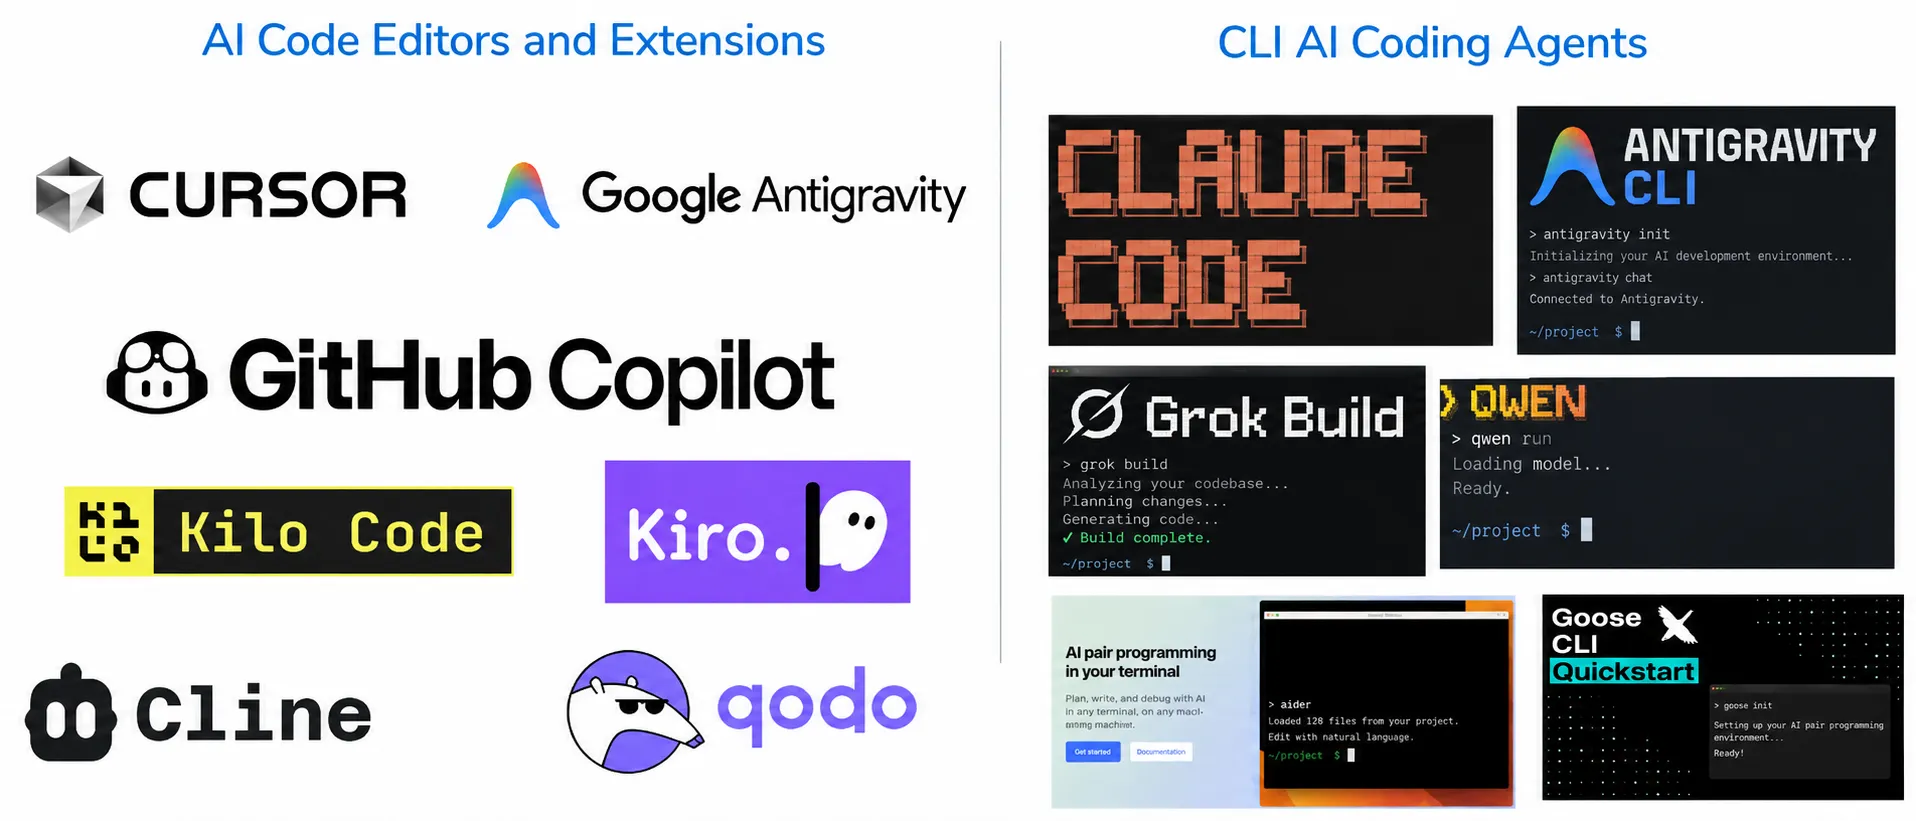
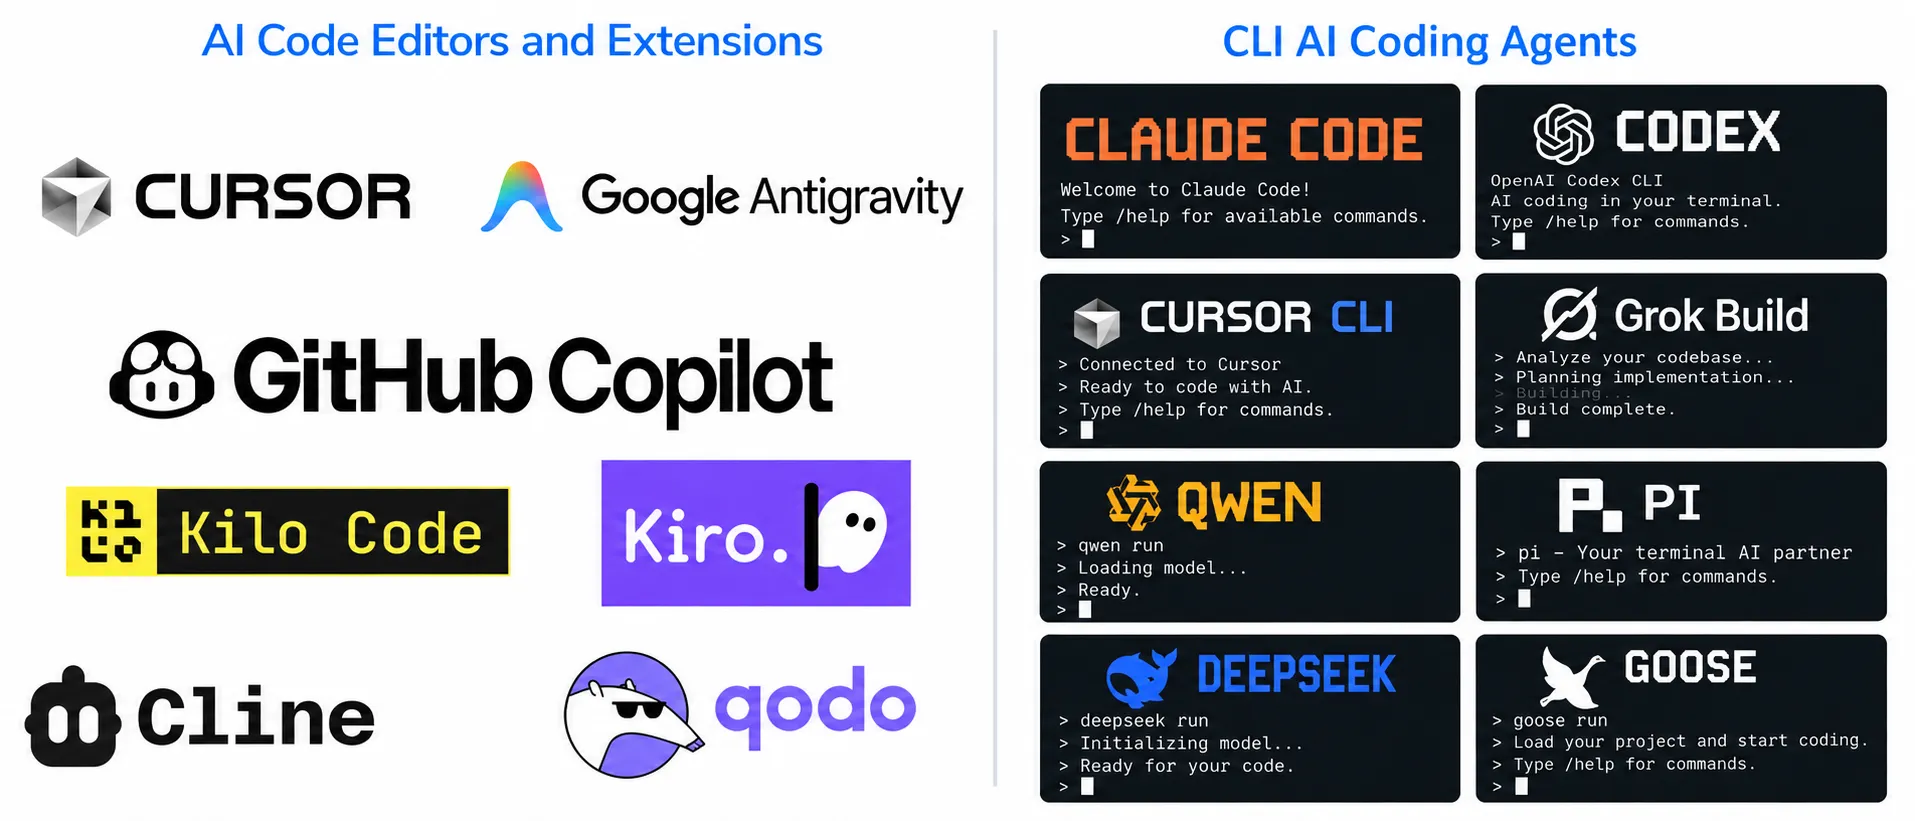
Update blog post on best AI coding tools for coding in 2026 with new content and image

diff --git a/content/blog/best_ai_tools_for_coding.md b/content/blog/best_ai_tools_for_coding.md
@@ -1,13 +1,13 @@
 ---
 title: "Best AI Tools for Coding in 2026"
-description: "The AI coding tools worth installing in late 2026: Cursor after the SpaceX deal, Google Antigravity, GitHub Copilot's credit billing, Cline, Kilo Code, Zed, Kiro, and terminal agents like Claude Code, OpenAI Codex, OpenCode, Pi, Amp, Grok Build, and Droid."
+description: "The AI coding tools worth installing in late 2026: Cursor after the SpaceX deal, Google Antigravity, GitHub Copilot's credit billing, Cline, Kilo Code, Zed, Kiro, and terminal agents like Claude Code, OpenAI Codex, DeepSeek Harness, OpenCode, Pi, Amp, Grok Build, and Droid."
 date: 2025-08-17T14:15:25+05:30
-lastmod: 2026-09-08T15:15:25+05:30
+lastmod: 2026-09-09T15:15:25+05:30
 draft: false
 tags: ["AI coding tools", "AI coding agents", "Cursor", "AI tools", "development"]
 categories: ["Technology", "Development", "AI Tools"]
 og_image: "images/best_ai_tools_for_coding/ai_coding_tools.webp"
[2 lines of base64/hex data omitted]
 outputs:
   - HTML
   - AMP
@@ -17,7 +17,7 @@ outputs:
 
 AI coding tools have gone from autocomplete plugins to agents that plan a task, edit a dozen files, run your test suite, and open the pull request. Picking one is now less about which model is smartest this month and more about where the agent runs, who owns it, and what a month of real usage costs.
 
-That last part is why this list looks different from the version you may have read earlier. In the last six months Google retired Gemini CLI, SpaceX closed a $60 billion all-stock acquisition of Cursor's parent Anysphere, AWS ended support for Amazon Q Developer, Cognition renamed Windsurf to Devin Desktop, and Cursor absorbed both Supermaven and Continue.dev. Several tools this post used to recommend no longer exist under the name you knew them by.
+That last part is why this list looks different from the version you may have read earlier. In the last six months Google retired Gemini CLI, SpaceX closed a $60 billion all-stock acquisition of Cursor's parent Anysphere, AWS ended support for Amazon Q Developer, Cognition renamed Windsurf to Devin Desktop, and Cursor absorbed both Supermaven and Continue.dev. Several tools this post used to recommend no longer exist under the name you knew them by. On the other side of the ledger, DeepSeek open-sourced its own agent harness on August 13 and passed 100,000 GitHub stars in about two days, on its way to overtaking OpenCode as the most-starred coding agent on GitHub.
 
 Here is what is actually worth installing in September 2026, split by where it runs: in your editor, or in your terminal.
 
@@ -36,14 +36,15 @@ Here is what is actually worth installing in September 2026, split by where it r
 **CLI coding agents:**
 1. **Claude Code** - Anthropic's terminal agent, strongest on long multi-file work - <a target="_blank" href="https://claude.com/product/claude-code">Try Claude Code</a>
 2. **OpenAI Codex** - Apache-2.0 terminal agent on OpenAI's GPT-5 series - <a target="_blank" href="https://github.com/openai/codex">Try Codex</a>
-3. **OpenCode** - 206k stars, 75+ model providers, MIT licensed - <a target="_blank" href="https://opencode.ai">Try OpenCode</a>
-4. **Pi** - the sub-1,000-token harness, 103k stars and still climbing - <a target="_blank" href="https://github.com/earendil-works/pi">Try Pi</a>
-5. **Cursor CLI** - Cursor's agent outside the editor, bundled with paid plans - <a target="_blank" href="https://cursor.com/cli">Try Cursor CLI</a>
-6. **Amp** - Sourcegraph-founded agent with a genuinely usable free tier - <a target="_blank" href="https://ampcode.com">Try Amp</a>
-7. **Grok Build** - xAI's Rust TUI with eight parallel sub-agents, Apache-2.0 - <a target="_blank" href="https://github.com/xai-org/grok-build">Try Grok Build</a>
-8. **Antigravity CLI** - Google's `agy` binary, the replacement for Gemini CLI - <a target="_blank" href="https://antigravity.google/">Try Antigravity CLI</a>
-9. **Droid** - Factory's model-agnostic agent aimed at enterprise SDLC - <a target="_blank" href="https://factory.ai">Try Droid</a>
-10. **Goose** - Apache-2.0 agent under the Agentic AI Foundation, runs local models - <a target="_blank" href="https://github.com/aaif-goose/goose">Try Goose</a>
+3. **DeepSeek Harness** - the new star leader, ~219k and MIT, everything in it is a plugin - <a target="_blank" href="https://github.com/deepseek-ai/deepseek-harness">Try DeepSeek Harness</a>
+4. **OpenCode** - 206k stars, 75+ model providers, MIT licensed - <a target="_blank" href="https://opencode.ai">Try OpenCode</a>
+5. **Pi** - the sub-1,000-token harness, 103k stars and still climbing - <a target="_blank" href="https://github.com/earendil-works/pi">Try Pi</a>
+6. **Cursor CLI** - Cursor's agent outside the editor, bundled with paid plans - <a target="_blank" href="https://cursor.com/cli">Try Cursor CLI</a>
+7. **Amp** - Sourcegraph-founded agent with a genuinely usable free tier - <a target="_blank" href="https://ampcode.com">Try Amp</a>
+8. **Grok Build** - xAI's Rust TUI with eight parallel sub-agents, Apache-2.0 - <a target="_blank" href="https://github.com/xai-org/grok-build">Try Grok Build</a>
+9. **Antigravity CLI** - Google's `agy` binary, the replacement for Gemini CLI - <a target="_blank" href="https://antigravity.google/">Try Antigravity CLI</a>
+10. **Droid** - Factory's model-agnostic agent aimed at enterprise SDLC - <a target="_blank" href="https://factory.ai">Try Droid</a>
+11. **Goose** - Apache-2.0 agent under the Agentic AI Foundation, runs local models - <a target="_blank" href="https://github.com/aaif-goose/goose">Try Goose</a>
 
 **Honorable mentions:** <a target="_blank" href="https://www.warp.dev">Warp</a>, <a target="_blank" href="https://github.com/charmbracelet/crush">Crush</a>, <a target="_blank" href="https://www.trae.ai">Trae</a>
 {{% /tldr %}}
@@ -127,48 +128,54 @@ Here is what is actually worth installing in September 2026, split by where it r
   <td style="border:1px solid #ddd;padding:0.4em 0.4em;text-align:left;">ChatGPT plans or API</td>
 </tr>
 <tr>
+  <td style="border:1px solid #ddd;padding:0.4em 0.4em;text-align:left;"><strong><a href="https://github.com/deepseek-ai/deepseek-harness" target="_blank">DeepSeek Harness</a></strong></td>
+  <td style="border:1px solid #ddd;padding:0.4em 0.4em;text-align:left;">CLI agent</td>
+  <td style="border:1px solid #ddd;padding:0.4em 0.4em;text-align:left;">Provider-agnostic, plugin-based, biggest star mover</td>
+  <td style="border:1px solid #ddd;padding:0.4em 0.4em;text-align:left;">Free (MIT)</td>
+</tr>
+<tr style="background:#f9fbfd;">
   <td style="border:1px solid #ddd;padding:0.4em 0.4em;text-align:left;"><strong><a href="https://opencode.ai" target="_blank">OpenCode</a></strong></td>
   <td style="border:1px solid #ddd;padding:0.4em 0.4em;text-align:left;">CLI agent</td>
   <td style="border:1px solid #ddd;padding:0.4em 0.4em;text-align:left;">Provider independence and local models</td>
   <td style="border:1px solid #ddd;padding:0.4em 0.4em;text-align:left;">Free (MIT)</td>
 </tr>
-<tr style="background:#f9fbfd;">
+<tr>
   <td style="border:1px solid #ddd;padding:0.4em 0.4em;text-align:left;"><strong><a href="https://github.com/earendil-works/pi" target="_blank">Pi</a></strong></td>
   <td style="border:1px solid #ddd;padding:0.4em 0.4em;text-align:left;">CLI agent</td>
   <td style="border:1px solid #ddd;padding:0.4em 0.4em;text-align:left;">A minimal, readable harness to build on</td>
   <td style="border:1px solid #ddd;padding:0.4em 0.4em;text-align:left;">Free (MIT)</td>
 </tr>
-<tr>
+<tr style="background:#f9fbfd;">
   <td style="border:1px solid #ddd;padding:0.4em 0.4em;text-align:left;"><strong><a href="https://cursor.com/cli" target="_blank">Cursor CLI</a></strong></td>
   <td style="border:1px solid #ddd;padding:0.4em 0.4em;text-align:left;">CLI agent</td>
   <td style="border:1px solid #ddd;padding:0.4em 0.4em;text-align:left;">Cursor users scripting or running in CI</td>
   <td style="border:1px solid #ddd;padding:0.4em 0.4em;text-align:left;">Bundled with Cursor plans</td>
 </tr>
-<tr style="background:#f9fbfd;">
+<tr>
   <td style="border:1px solid #ddd;padding:0.4em 0.4em;text-align:left;"><strong><a href="https://ampcode.com" target="_blank">Amp</a></strong></td>
   <td style="border:1px solid #ddd;padding:0.4em 0.4em;text-align:left;">CLI agent</td>
   <td style="border:1px solid #ddd;padding:0.4em 0.4em;text-align:left;">Trying a full agent at zero cost</td>
   <td style="border:1px solid #ddd;padding:0.4em 0.4em;text-align:left;">Free with ads; zero-markup credits</td>
 </tr>
-<tr>
+<tr style="background:#f9fbfd;">
   <td style="border:1px solid #ddd;padding:0.4em 0.4em;text-align:left;"><strong><a href="https://github.com/xai-org/grok-build" target="_blank">Grok Build</a></strong></td>
   <td style="border:1px solid #ddd;padding:0.4em 0.4em;text-align:left;">CLI agent</td>
   <td style="border:1px solid #ddd;padding:0.4em 0.4em;text-align:left;">Parallel sub-agents in isolated worktrees</td>
   <td style="border:1px solid #ddd;padding:0.4em 0.4em;text-align:left;">Free harness; Grok plan or API key</td>
 </tr>
-<tr style="background:#f9fbfd;">
+<tr>
   <td style="border:1px solid #ddd;padding:0.4em 0.4em;text-align:left;"><strong><a href="https://antigravity.google/" target="_blank">Antigravity CLI</a></strong></td>
   <td style="border:1px solid #ddd;padding:0.4em 0.4em;text-align:left;">CLI agent</td>
   <td style="border:1px solid #ddd;padding:0.4em 0.4em;text-align:left;">Gemini models from the terminal</td>
   <td style="border:1px solid #ddd;padding:0.4em 0.4em;text-align:left;">Free, weekly compute cap</td>
 </tr>
-<tr>
+<tr style="background:#f9fbfd;">
   <td style="border:1px solid #ddd;padding:0.4em 0.4em;text-align:left;"><strong><a href="https://factory.ai" target="_blank">Droid</a></strong></td>
   <td style="border:1px solid #ddd;padding:0.4em 0.4em;text-align:left;">CLI agent</td>
   <td style="border:1px solid #ddd;padding:0.4em 0.4em;text-align:left;">Ticket-to-PR workflows in enterprises</td>
   <td style="border:1px solid #ddd;padding:0.4em 0.4em;text-align:left;">$20 to $200/mo</td>
 </tr>
-<tr style="background:#f9fbfd;">
+<tr>
   <td style="border:1px solid #ddd;padding:0.4em 0.4em;text-align:left;"><strong><a href="https://github.com/aaif-goose/goose" target="_blank">Goose</a></strong></td>
   <td style="border:1px solid #ddd;padding:0.4em 0.4em;text-align:left;">CLI agent</td>
   <td style="border:1px solid #ddd;padding:0.4em 0.4em;text-align:left;">Fully offline work and infrastructure tasks</td>
@@ -362,11 +369,29 @@ Codex runs on OpenAI's current GPT-5 series with one of the largest context wind
 
 **Pricing:** Included with ChatGPT Plus, Pro, and Business plans up to a usage allowance, or pay-as-you-go with an API key.
 
-### 3. OpenCode - Provider Independence, 206k Stars
+### 3. DeepSeek Harness - Everything Is a Plugin
+
+{{< image "top_cli_based_ai_coding_agents/deepseek_harness_cli.webp" "DeepSeek Harness developer preview homepage" >}}
+
+{{< link href="https://github.com/deepseek-ai/deepseek-harness" >}}DeepSeek Harness{{< /link >}} (`dsh`) did not exist a month before this update. DeepSeek published it under MIT on August 13, 2026, and it passed 100,000 GitHub stars in roughly two days, on its way to around 219,000 today, past OpenCode for the raw star lead in this whole category.
+
+The design idea is in the name: everything, including the agent loop itself, is a replaceable plugin. Models, tools, skills, sessions, sandboxes, storage, scheduling, and the UI are all swappable pieces built on a plugin runtime called Cordis, so you extend it by mounting a plugin rather than forking internals. Despite the branding it is not DeepSeek-only: the built-in provider catalog covers Anthropic, OpenAI, Bedrock, Azure, and Vertex, and you can register a custom provider pointing at a self-hosted endpoint to attach Ollama or vLLM. It defaults to `deepseek-v4-pro` and `deepseek-v4-flash`, reads both `AGENTS.md` and `CLAUDE.md`, acts as an MCP client, and ships an ACP server plus Python and JSON-RPC SDKs.
+
+One shape difference to know before you reach for it: `dsh` is web-first, not a terminal UI. The default `npx @deepseek-ai/dsh web` opens a local browser interface, and terminal-only use means the headless path, `npx @deepseek-ai/dsh --profile headless "fix the failing tests"`. If you want a full-screen TUI like Grok Build or Crush, this is not that. It is also, by DeepSeek's own README, a developer preview that promises breaking changes, so pin your version if you depend on it.
+
+- **Everything is a plugin** - the agent loop, tools, sessions, and UI are all swappable
+- **Multi-provider despite the name** - Anthropic, OpenAI, Bedrock, Azure, and Vertex, plus custom endpoints
+- **Reads AGENTS.md and CLAUDE.md** - and can delegate to the Claude Code and Codex binaries
+- **Web-first, not a TUI** - a local browser UI by default, with a headless CLI path for scripts and CI
+- **Developer preview** - breaking changes are expected, pin the version you build on
+
+**Pricing:** Free and MIT licensed. You pay whichever provider you configure, including DeepSeek's own API.
+
+### 4. OpenCode - Provider Independence, 206k Stars
 
 {{< image "top_cli_based_ai_coding_agents/opencode_cli.webp" "OpenCode open source AI coding agent" >}}
 
-{{< link href="https://opencode.ai" >}}OpenCode{{< /link >}} is one of the two most-starred coding agents on GitHub, at over 206,000 stars, and it is the pick if you do not want a vendor deciding which model you use. It is MIT licensed and provider-agnostic: 75+ providers through Models.dev, local models through Ollama, or you can authenticate with a GitHub Copilot or ChatGPT subscription you already pay for and use that quota.
+{{< link href="https://opencode.ai" >}}OpenCode{{< /link >}} held the raw star lead in this category until DeepSeek Harness landed, and at over 206,000 stars it is still the pick if you do not want a vendor deciding which model you use. It is MIT licensed and provider-agnostic: 75+ providers through Models.dev, local models through Ollama, or you can authenticate with a GitHub Copilot or ChatGPT subscription you already pay for and use that quota.
 
 It moved from `sst/opencode` to `anomalyco/opencode` after the rebrand, so old links redirect. Beyond the terminal it now ships a desktop app and an IDE extension, loads language servers automatically so the agent gets real type information instead of guessing, and supports multiple parallel sessions. Kilo Code rebuilt itself on top of it in April 2026, which is a decent signal about the quality of the harness.
 
@@ -378,7 +403,7 @@ It moved from `sst/opencode` to `anomalyco/opencode` after the rebrand, so old l
 
 **Pricing:** Free and MIT licensed. You pay whichever provider you point it at, or nothing if you run local models.
 
-### 4. Pi - The Smallest Harness That Still Does the Job
+### 5. Pi - The Smallest Harness That Still Does the Job
 
 {{< image "top_cli_based_ai_coding_agents/pi_cli.webp" "Pi coding agent" >}}
 
@@ -396,7 +421,7 @@ That makes it the one to reach for if you want to know exactly what your agent i
 
 **Pricing:** Free and MIT licensed. You pay only whichever model provider you point it at.
 
-### 5. Cursor CLI - Cursor's Agent Outside the Editor
+### 6. Cursor CLI - Cursor's Agent Outside the Editor
 
 {{< image "top_cli_based_ai_coding_agents/cursor_cli.webp" "Cursor CLI terminal agent" >}}
 
@@ -412,7 +437,7 @@ It keeps the Plan and Ask modes from the editor, and adds Cloud Handoff: prefix 
 
 **Pricing:** Bundled with paid Cursor plans, starting at $20/month.
 
-### 6. Amp - A Free Tier That Is Actually Usable
+### 7. Amp - A Free Tier That Is Actually Usable
 
 {{< image "top_cli_based_ai_coding_agents/ampcode_cli.webp" "Amp coding agent" >}}
 
@@ -428,7 +453,7 @@ The pricing is the interesting part. Amp Free, launched in October 2025, is ad-s
 
 **Pricing:** Free with ads, or pay-as-you-go credits at zero markup. Higher tiers are available for teams that need more throughput.
 
-### 7. Grok Build - xAI's Rust TUI, Now Open Source
+### 8. Grok Build - xAI's Rust TUI, Now Open Source
 
 {{< image "top_cli_based_ai_coding_agents/grokbuild_cli.webp" "Grok Build from xAI" >}}
 
@@ -446,7 +471,7 @@ Despite the subscription-first launch, it is not locked to xAI. It authenticates
 
 **Pricing:** The harness is free and open source. Model access comes through a Grok subscription, available on every plan including the free tier since August 2026 with SuperGrok at $30/month, or through your own `XAI_API_KEY` on the API.
 
-### 8. Antigravity CLI - Google's Replacement for Gemini CLI
+### 9. Antigravity CLI - Google's Replacement for Gemini CLI
 
 {{< image "top_cli_based_ai_coding_agents/antigravity_cli.webp" "Antigravity CLI from Google" >}}
 
@@ -461,7 +486,7 @@ Two changes are worth knowing before you migrate. It is closed source, where Gem
 
 **Pricing:** Free with a weekly compute cap, with higher limits on Google AI Pro and Ultra subscriptions.
 
-### 9. Droid - Built for the Enterprise SDLC
+### 10. Droid - Built for the Enterprise SDLC
 
 {{< image "best_ai_tools_for_coding/factory_droid.webp" "Factory Droid coding agent" >}}
 
@@ -477,7 +502,7 @@ It is model-agnostic on the backend, routing to frontier models rather than bind
 
 **Pricing:** Pro is $20/month, Plus $100/month, and Max $200/month, with custom pricing for teams and enterprises.
 
-### 10. Goose - Foundation-Governed and Local-First
+### 11. Goose - Foundation-Governed and Local-First
 
 {{< image "best_ai_tools_for_coding/goose.webp" "Goose AI Coding Agent" >}}
 
@@ -519,7 +544,7 @@ Start with where you want to review the work, because that single decision elimi
 
 Then work out what actually blocks you today. If your problem is typing speed on familiar code, inline completion is enough and Copilot's $10 tier solves it. If your problem is that a change touches thirty files across four modules, completion does not help at all and you need an agent that can plan, run tests, and read its own failures. If your problem is that AI-written code arrives faster than anyone can review it, the tool you need is Qodo or Kiro, not a faster generator.
 
-Check the constraints that are not negotiable before you fall in love with a product. Code that cannot leave your network rules out almost everything here and leaves an open-source agent pointed at a local model through Ollama, which in practice means OpenCode, Pi, Goose, or Grok Build. A hard budget rules out anything billed in credits, because agent mode burns them in a way autocomplete never did. Discomfort about ownership is now a legitimate technical constraint too, given that Cursor belongs to SpaceX, Antigravity belongs to Google, and Gemini CLI stopped existing with two weeks of notice.
+Check the constraints that are not negotiable before you fall in love with a product. Code that cannot leave your network rules out almost everything here and leaves an open-source agent pointed at a local model through Ollama, which in practice means OpenCode, DeepSeek Harness, Pi, Goose, or Grok Build. A hard budget rules out anything billed in credits, because agent mode burns them in a way autocomplete never did. Discomfort about ownership is now a legitimate technical constraint too, given that Cursor belongs to SpaceX, Antigravity belongs to Google, and Gemini CLI stopped existing with two weeks of notice. If you want a hackable base rather than a finished product, DeepSeek Harness and Pi are both built to be taken apart, just be ready for a developer preview's rough edges on the former.
 
 Finally, test on something real. Every tool here has a free tier, a trial, or an open-source licence, so pick one genuine ticket from your backlog and run it through two or three candidates. Compare the diffs, count how much you had to clean up afterwards, and multiply that session's cost by a month. Benchmarks measure something; your own backlog measures the thing you are actually paying for.
 
